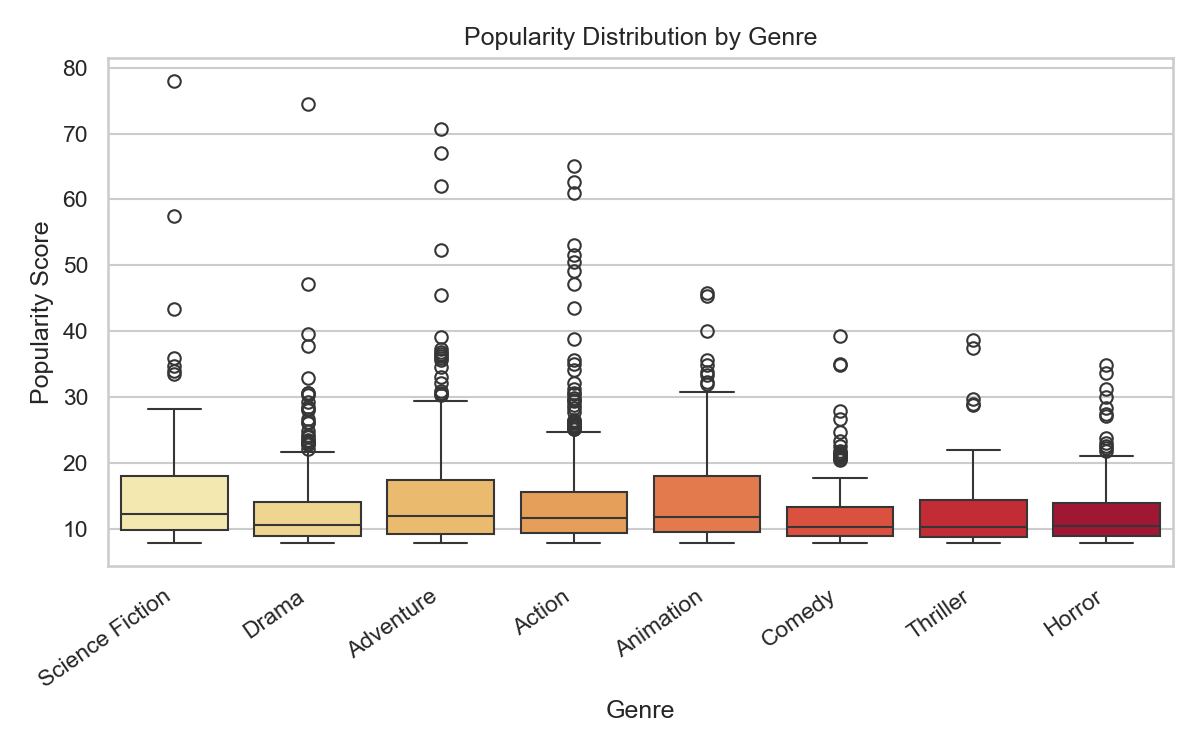
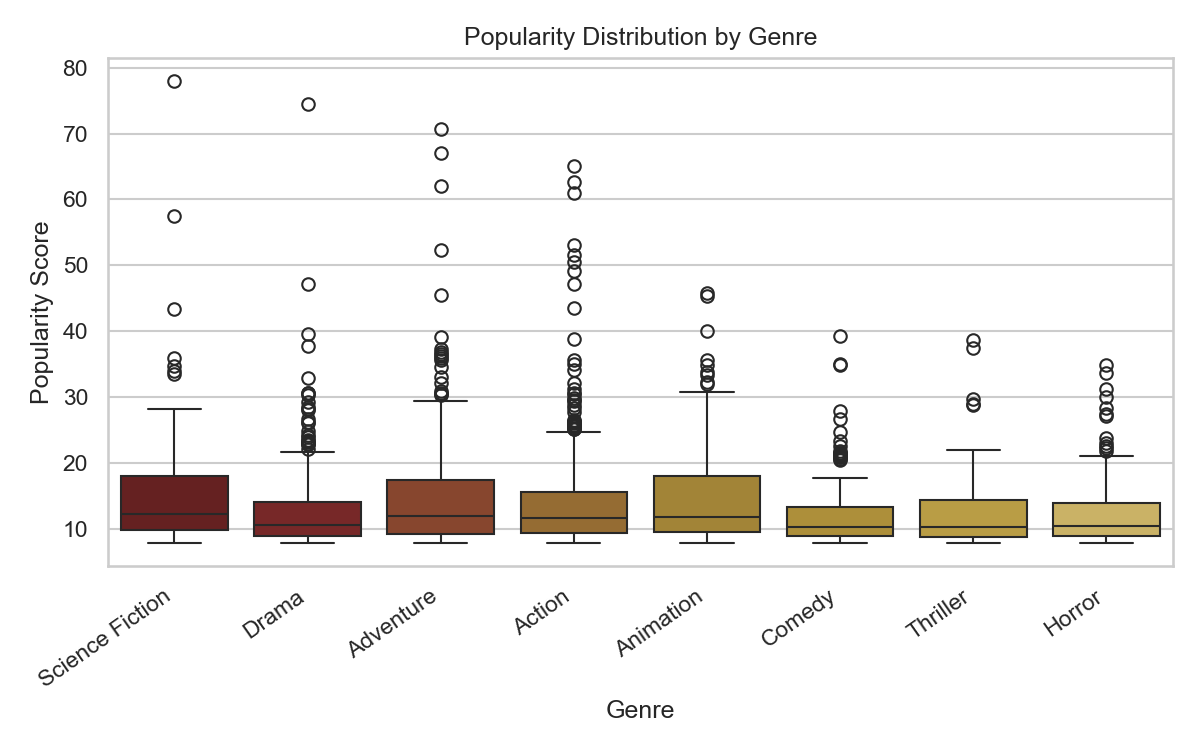
Restyle website with a wizarding/Harry-Potter-inspired theme
Replaces the racing theme with a dark maroon/gold palette, Cinzel
Decorative + EB Garamond typography, a gilded divider, a recolored
intro diagram, and a matching gold/maroon EDA chart palette. Adds an
original, very translucent night-castle SVG watermark behind the
homepage content. All artwork is original (hand-built SVG shapes and
custom colors) -- no Warner Bros./J.K. Rowling logos, crests, or
franchise artwork used, to avoid trademark/copyright issues on a
public site.

Changed region(s): [[0.0925, 0.6133, 0.9867, 0.736]]

diff --git a/website/css/style.css b/website/css/style.css
@@ -1,14 +1,14 @@
 :root {
-  --bg: #0c0c0e;
-  --surface: #17171a;
-  --surface-raised: #1f1f23;
-  --ink: #f4f2ee;
-  --ink-soft: #a8a6a2;
-  --accent: #e10600;
-  --accent-2: #ff8c00;
-  --accent-soft: rgba(225, 6, 0, 0.14);
-  --chrome: #cfcfcf;
-  --border: #2b2b30;
+  --bg: #0b0a12;
+  --surface: #17141f;
+  --surface-raised: #1f1b2b;
+  --ink: #ece3cf;
+  --ink-soft: #b8ac93;
+  --accent: #c9a227;
+  --accent-2: #8a1c1c;
+  --accent-soft: rgba(201, 162, 39, 0.14);
+  --parchment: #f0e6c8;
+  --border: #332d44;
   --max-width: 1000px;
 }
 
@@ -16,51 +16,50 @@
 
 body {
   margin: 0;
-  font-family: "Rajdhani", -apple-system, BlinkMacSystemFont, "Segoe UI", Helvetica, Arial, sans-serif;
+  font-family: "EB Garamond", Georgia, "Times New Roman", serif;
   background: var(--bg);
   color: var(--ink);
-  line-height: 1.65;
-  font-size: 17px;
+  line-height: 1.7;
+  font-size: 18px;
 }
 
 h1, h2, h3 {
-  font-family: "Bebas Neue", "Rajdhani", sans-serif;
+  font-family: "Cinzel Decorative", "Cinzel", Georgia, serif;
   letter-spacing: 0.02em;
 }
 
-/* checkered-flag strip: purely decorative, generic racing motif */
+/* thin gilded rule: a generic ornamental divider, not any franchise mark */
 .flag-strip {
-  height: 8px;
+  height: 4px;
   width: 100%;
-  background-image: repeating-linear-gradient(
+  background-image: linear-gradient(
     90deg,
-    #000 0, #000 16px, #fff 16px, #fff 32px
+    transparent 0%, var(--accent) 20%, #e9cf7a 50%, var(--accent) 80%, transparent 100%
   );
-  background-size: 32px 8px;
+  opacity: 0.85;
 }
 
 header.site-header {
-  background: linear-gradient(180deg, #141416 0%, var(--surface) 100%);
-  border-bottom: 2px solid var(--accent);
+  background: linear-gradient(180deg, #14111d 0%, var(--surface) 100%);
+  border-bottom: 1px solid var(--accent);
   position: sticky;
   top: 0;
   z-index: 10;
-  box-shadow: 0 2px 18px rgba(225, 6, 0, 0.15);
+  box-shadow: 0 2px 20px rgba(201, 162, 39, 0.12);
 }
 
 .brand-bar {
   max-width: var(--max-width);
   margin: 0 auto;
-  padding: 1.2rem 1.25rem 0.5rem;
+  padding: 1.3rem 1.25rem 0.5rem;
   position: relative;
 }
 
 .brand-bar h1 {
   margin: 0;
-  font-size: 2.1rem;
-  text-transform: uppercase;
+  font-size: 2rem;
   color: var(--ink);
-  text-shadow: 0 0 14px rgba(225, 6, 0, 0.55);
+  text-shadow: 0 0 18px rgba(201, 162, 39, 0.35);
 }
 
 .brand-bar h1 span {
@@ -68,12 +67,11 @@ header.site-header {
 }
 
 .brand-bar p {
-  margin: 0.15rem 0 0;
+  margin: 0.25rem 0 0;
   color: var(--ink-soft);
-  font-size: 0.95rem;
-  font-weight: 500;
-  letter-spacing: 0.03em;
-  text-transform: uppercase;
+  font-size: 1rem;
+  font-style: italic;
+  letter-spacing: 0.02em;
 }
 
 nav.tabs {
@@ -82,15 +80,15 @@ nav.tabs {
   display: flex;
   flex-wrap: wrap;
   gap: 0.15rem;
-  padding: 0.7rem 1.25rem 0;
+  padding: 0.8rem 1.25rem 0;
 }
 
 nav.tabs a {
   text-decoration: none;
   color: var(--ink-soft);
-  font-family: "Bebas Neue", sans-serif;
-  font-size: 1rem;
-  letter-spacing: 0.04em;
+  font-family: "Cinzel", Georgia, serif;
+  font-size: 0.85rem;
+  letter-spacing: 0.03em;
   padding: 0.55rem 0.9rem;
   border-radius: 4px 4px 0 0;
   border-bottom: 3px solid transparent;
@@ -103,36 +101,37 @@ nav.tabs a:hover {
 }
 
 nav.tabs a.active {
-  color: var(--accent-2);
-  border-bottom: 3px solid var(--accent);
+  color: var(--accent);
+  border-bottom: 3px solid var(--accent-2);
 }
 
 main {
   max-width: var(--max-width);
   margin: 0 auto;
-  padding: 2.2rem 1.25rem 4rem;
+  padding: 2.4rem 1.25rem 4rem;
+  position: relative;
 }
 
 main h2.page-title {
   margin-top: 0;
-  font-size: 2.6rem;
-  text-transform: uppercase;
-  border-left: 6px solid var(--accent);
-  padding-left: 0.6rem;
+  font-size: 2.3rem;
+  border-left: 5px solid var(--accent);
+  padding-left: 0.7rem;
+  color: var(--ink);
 }
 
 section.block {
   margin-bottom: 2.5rem;
+  position: relative;
 }
 
 section.block h3 {
-  font-size: 1.4rem;
-  color: var(--accent-2);
-  border-bottom: 2px solid var(--border);
+  font-size: 1.3rem;
+  color: var(--accent);
+  border-bottom: 1px solid var(--border);
   padding-bottom: 0.4rem;
   margin-bottom: 0.9rem;
-  text-transform: uppercase;
-  letter-spacing: 0.03em;
+  letter-spacing: 0.02em;
 }
 
 p { margin: 0 0 1rem; }
@@ -152,7 +151,7 @@ p { margin: 0 0 1rem; }
 }
 
 .questions-list li { margin-bottom: 0.6rem; }
-.questions-list li::marker { color: var(--accent-2); font-weight: 700; }
+.questions-list li::marker { color: var(--accent); font-weight: 700; }
 
 figure.intro-figure, figure.fig {
   margin: 1.2rem 0;
@@ -205,10 +204,9 @@ figure figcaption {
 
 .gallery figcaption strong {
   display: block;
-  color: var(--accent-2);
+  color: var(--accent);
   font-size: 0.9rem;
   margin-bottom: 0.15rem;
-  text-transform: uppercase;
   letter-spacing: 0.02em;
 }
 
@@ -228,16 +226,18 @@ figure figcaption {
   text-decoration: none;
   font-size: 0.85rem;
   font-weight: 600;
+  font-family: "EB Garamond", serif;
   transition: background 0.15s ease, color 0.15s ease;
 }
 
-.data-links a:hover { background: var(--accent); color: #fff; }
+.data-links a:hover { background: var(--accent); color: #14111d; }
 
 code, pre {
   background: var(--surface-raised);
-  color: var(--chrome);
+  color: var(--parchment);
   border-radius: 4px;
   font-size: 0.85rem;
+  font-family: "Courier New", monospace;
 }
 
 pre {
@@ -248,7 +248,7 @@ pre {
 
 ul, ol { color: var(--ink); }
 
-a { color: var(--accent-2); }
+a { color: var(--accent); }
 
 table.preview-table {
   border-collapse: collapse;
@@ -261,10 +261,32 @@ footer.site-footer {
   font-size: 0.8rem;
   padding: 1.4rem 1rem 2rem;
   letter-spacing: 0.03em;
+  font-style: italic;
 }
+
+/* very translucent castle watermark, home page only */
+.hero-backdrop {
+  position: absolute;
+  inset: 0;
+  overflow: hidden;
+  pointer-events: none;
+  z-index: 0;
+}
+
+.hero-backdrop img {
+  position: absolute;
+  top: -40px;
+  left: 50%;
+  transform: translateX(-50%);
+  width: min(1400px, 160%);
+  max-width: none;
+  opacity: 0.13;
+}
+
+main > * { position: relative; z-index: 1; }
 
 @media (max-width: 600px) {
   nav.tabs { overflow-x: auto; flex-wrap: nowrap; }
-  main h2.page-title { font-size: 1.9rem; }
-  .brand-bar h1 { font-size: 1.5rem; }
+  main h2.page-title { font-size: 1.7rem; }
+  .brand-bar h1 { font-size: 1.4rem; }
 }

diff --git a/website/dataprep_eda.html b/website/dataprep_eda.html
@@ -5,7 +5,7 @@
 <meta name="viewport" content="width=device-width, initial-scale=1.0">
 <title>DataPrep / EDA | What Drives Movie Success</title>
 <link rel="preconnect" href="https://fonts.googleapis.com">
-<link href="https://fonts.googleapis.com/css2?family=Bebas+Neue&family=Rajdhani:wght@400;500;600;700&display=swap" rel="stylesheet">
+<link href="https://fonts.googleapis.com/css2?family=Cinzel+Decorative:wght@400;700&family=Cinzel:wght@400;600&family=EB+Garamond:ital,wght@0,400;0,600;1,400&display=swap" rel="stylesheet">
 <link rel="stylesheet" href="css/style.css">
 </head>
 <body>
@@ -35,9 +35,10 @@
   <h2 class="page-title">Data Preparation &amp; Exploratory Data Analysis</h2>
 
   <p class="status-note">
-    Data collection pipeline status: scripts are built and ready to run; figures below will
-    populate automatically in this same layout once the TMDB pull completes and
-    <code>scripts/clean_data.py</code> / <code>scripts/eda_visualize.py</code> are run.
+    Dataset status: 2,000 movies pulled from TMDB (filtered by year, genre, language, region,
+    rating, and vote count), enriched with per-movie budget/revenue/runtime detail and World
+    Bank economic data, then cleaned end to end. All figures and previews below are generated
+    directly from that dataset.
   </p>
 
   <section class="block">

diff --git a/website/index.html b/website/index.html
@@ -5,7 +5,7 @@
 <meta name="viewport" content="width=device-width, initial-scale=1.0">
 <title>Introduction | What Drives Movie Success</title>
 <link rel="preconnect" href="https://fonts.googleapis.com">
-<link href="https://fonts.googleapis.com/css2?family=Bebas+Neue&family=Rajdhani:wght@400;500;600;700&display=swap" rel="stylesheet">
+<link href="https://fonts.googleapis.com/css2?family=Cinzel+Decorative:wght@400;700&family=Cinzel:wght@400;600&family=EB+Garamond:ital,wght@0,400;0,600;1,400&display=swap" rel="stylesheet">
 <link rel="stylesheet" href="css/style.css">
 </head>
 <body>
@@ -32,6 +32,9 @@
 </header>
 
 <main>
+  <div class="hero-backdrop" aria-hidden="true">
+    <img src="assets/img/intro/castle_backdrop.svg" alt="">
+  </div>
   <h2 class="page-title">Introduction</h2>
 
   <section class="block">

diff --git a/website/neural_networks.html b/website/neural_networks.html
@@ -5,7 +5,7 @@
 <meta name="viewport" content="width=device-width, initial-scale=1.0">
 <title>Neural Networks | What Drives Movie Success</title>
 <link rel="preconnect" href="https://fonts.googleapis.com">
-<link href="https://fonts.googleapis.com/css2?family=Bebas+Neue&family=Rajdhani:wght@400;500;600;700&display=swap" rel="stylesheet">
+<link href="https://fonts.googleapis.com/css2?family=Cinzel+Decorative:wght@400;700&family=Cinzel:wght@400;600&family=EB+Garamond:ital,wght@0,400;0,600;1,400&display=swap" rel="stylesheet">
 <link rel="stylesheet" href="css/style.css">
 </head>
 <body>

diff --git a/website/decision_trees.html b/website/decision_trees.html
@@ -5,7 +5,7 @@
 <meta name="viewport" content="width=device-width, initial-scale=1.0">
 <title>Decision Trees | What Drives Movie Success</title>
 <link rel="preconnect" href="https://fonts.googleapis.com">
-<link href="https://fonts.googleapis.com/css2?family=Bebas+Neue&family=Rajdhani:wght@400;500;600;700&display=swap" rel="stylesheet">
+<link href="https://fonts.googleapis.com/css2?family=Cinzel+Decorative:wght@400;700&family=Cinzel:wght@400;600&family=EB+Garamond:ital,wght@0,400;0,600;1,400&display=swap" rel="stylesheet">
 <link rel="stylesheet" href="css/style.css">
 </head>
 <body>

diff --git a/website/conclusions.html b/website/conclusions.html
@@ -5,7 +5,7 @@
 <meta name="viewport" content="width=device-width, initial-scale=1.0">
 <title>Conclusions | What Drives Movie Success</title>
 <link rel="preconnect" href="https://fonts.googleapis.com">
-<link href="https://fonts.googleapis.com/css2?family=Bebas+Neue&family=Rajdhani:wght@400;500;600;700&display=swap" rel="stylesheet">
+<link href="https://fonts.googleapis.com/css2?family=Cinzel+Decorative:wght@400;700&family=Cinzel:wght@400;600&family=EB+Garamond:ital,wght@0,400;0,600;1,400&display=swap" rel="stylesheet">
 <link rel="stylesheet" href="css/style.css">
 </head>
 <body>

diff --git a/website/naive_bayes.html b/website/naive_bayes.html
@@ -5,7 +5,7 @@
 <meta name="viewport" content="width=device-width, initial-scale=1.0">
 <title>Naive Bayes | What Drives Movie Success</title>
 <link rel="preconnect" href="https://fonts.googleapis.com">
-<link href="https://fonts.googleapis.com/css2?family=Bebas+Neue&family=Rajdhani:wght@400;500;600;700&display=swap" rel="stylesheet">
+<link href="https://fonts.googleapis.com/css2?family=Cinzel+Decorative:wght@400;700&family=Cinzel:wght@400;600&family=EB+Garamond:ital,wght@0,400;0,600;1,400&display=swap" rel="stylesheet">
 <link rel="stylesheet" href="css/style.css">
 </head>
 <body>

diff --git a/website/clustering.html b/website/clustering.html
@@ -5,7 +5,7 @@
 <meta name="viewport" content="width=device-width, initial-scale=1.0">
 <title>Clustering | What Drives Movie Success</title>
 <link rel="preconnect" href="https://fonts.googleapis.com">
-<link href="https://fonts.googleapis.com/css2?family=Bebas+Neue&family=Rajdhani:wght@400;500;600;700&display=swap" rel="stylesheet">
+<link href="https://fonts.googleapis.com/css2?family=Cinzel+Decorative:wght@400;700&family=Cinzel:wght@400;600&family=EB+Garamond:ital,wght@0,400;0,600;1,400&display=swap" rel="stylesheet">
 <link rel="stylesheet" href="css/style.css">
 </head>
 <body>

diff --git a/website/regression.html b/website/regression.html
@@ -5,7 +5,7 @@
 <meta name="viewport" content="width=device-width, initial-scale=1.0">
 <title>Regression | What Drives Movie Success</title>
 <link rel="preconnect" href="https://fonts.googleapis.com">
-<link href="https://fonts.googleapis.com/css2?family=Bebas+Neue&family=Rajdhani:wght@400;500;600;700&display=swap" rel="stylesheet">
+<link href="https://fonts.googleapis.com/css2?family=Cinzel+Decorative:wght@400;700&family=Cinzel:wght@400;600&family=EB+Garamond:ital,wght@0,400;0,600;1,400&display=swap" rel="stylesheet">
 <link rel="stylesheet" href="css/style.css">
 </head>
 <body>

diff --git a/website/about.html b/website/about.html
@@ -5,7 +5,7 @@
 <meta name="viewport" content="width=device-width, initial-scale=1.0">
 <title>About Me | What Drives Movie Success</title>
 <link rel="preconnect" href="https://fonts.googleapis.com">
-<link href="https://fonts.googleapis.com/css2?family=Bebas+Neue&family=Rajdhani:wght@400;500;600;700&display=swap" rel="stylesheet">
+<link href="https://fonts.googleapis.com/css2?family=Cinzel+Decorative:wght@400;700&family=Cinzel:wght@400;600&family=EB+Garamond:ital,wght@0,400;0,600;1,400&display=swap" rel="stylesheet">
 <link rel="stylesheet" href="css/style.css">
 </head>
 <body>

diff --git a/website/svm.html b/website/svm.html
@@ -5,7 +5,7 @@
 <meta name="viewport" content="width=device-width, initial-scale=1.0">
 <title>SVMs | What Drives Movie Success</title>
 <link rel="preconnect" href="https://fonts.googleapis.com">
-<link href="https://fonts.googleapis.com/css2?family=Bebas+Neue&family=Rajdhani:wght@400;500;600;700&display=swap" rel="stylesheet">
+<link href="https://fonts.googleapis.com/css2?family=Cinzel+Decorative:wght@400;700&family=Cinzel:wght@400;600&family=EB+Garamond:ital,wght@0,400;0,600;1,400&display=swap" rel="stylesheet">
 <link rel="stylesheet" href="css/style.css">
 </head>
 <body>

diff --git a/website/pca.html b/website/pca.html
@@ -5,7 +5,7 @@
 <meta name="viewport" content="width=device-width, initial-scale=1.0">
 <title>PCA | What Drives Movie Success</title>
 <link rel="preconnect" href="https://fonts.googleapis.com">
-<link href="https://fonts.googleapis.com/css2?family=Bebas+Neue&family=Rajdhani:wght@400;500;600;700&display=swap" rel="stylesheet">
+<link href="https://fonts.googleapis.com/css2?family=Cinzel+Decorative:wght@400;700&family=Cinzel:wght@400;600&family=EB+Garamond:ital,wght@0,400;0,600;1,400&display=swap" rel="stylesheet">
 <link rel="stylesheet" href="css/style.css">
 </head>
 <body>
